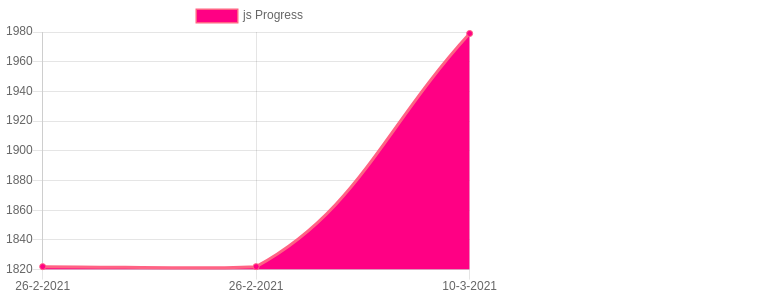
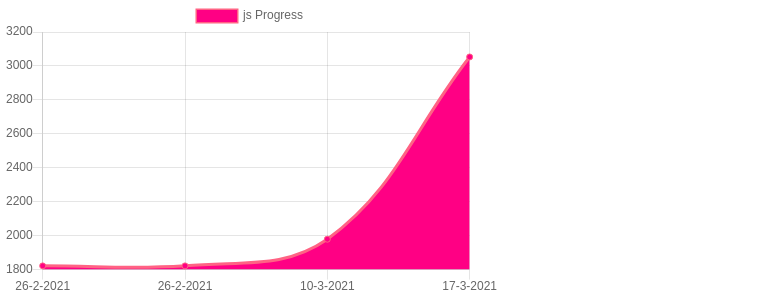
1000: js (node orms, react js)

diff --git a/total.html b/total.html
@@ -9,7 +9,7 @@
         <script src="https://cdn.jsdelivr.net/npm/chart.js@2.8.0"></script>
         <script>
           var ctx = document.getElementById("total").getContext("2d");
-          const goLabelsDates = ["2021-02-27T01:37:43.112Z","2021-02-27T01:38:01.628Z","2021-03-01T13:41:18.753Z","2021-03-01T14:53:41.991Z","2021-03-01T15:08:00.851Z","2021-03-01T15:09:10.635Z","2021-03-01T15:22:55.385Z","2021-03-03T15:31:41.151Z","2021-03-05T14:02:13.446Z","2021-03-10T14:50:13.297Z","2021-03-11T01:54:03.424Z","2021-03-11T15:32:47.647Z","2021-03-11T16:01:51.191Z","2021-03-12T00:36:04.646Z","2021-03-13T00:14:58.179Z","2021-03-16T05:30:04.043Z",];
+          const goLabelsDates = ["2021-02-27T01:37:43.112Z","2021-02-27T01:38:01.628Z","2021-03-01T13:41:18.753Z","2021-03-01T14:53:41.991Z","2021-03-01T15:08:00.851Z","2021-03-01T15:09:10.635Z","2021-03-01T15:22:55.385Z","2021-03-03T15:31:41.151Z","2021-03-05T14:02:13.446Z","2021-03-10T14:50:13.297Z","2021-03-11T01:54:03.424Z","2021-03-11T15:32:47.647Z","2021-03-11T16:01:51.191Z","2021-03-12T00:36:04.646Z","2021-03-13T00:14:58.179Z","2021-03-16T05:30:04.043Z","2021-03-17T21:17:52.181Z",];
           var chart = new Chart(ctx, {
             type: 'line',
             data: {
@@ -18,7 +18,7 @@
                 label: 'total Progress',
                 backgroundColor: 'rgb(255, 0, 132)',
                 borderColor: 'rgb(255, 99, 132)',
-                data: [7975,7975,8307,8526,8526,8527,8573,9171,9358,9751,9908,10232,10231,10643,10911,11353,]
+                data: [7975,7975,8307,8526,8526,8527,8573,9171,9358,9751,9908,10232,10231,10643,10911,11353,12576,]
               }]
             },
           });

diff --git a/ts.html b/ts.html
@@ -4,12 +4,12 @@
       <head></head>
       <body>
         <div style="width: 500px;">
-          <canvas id="ts" width="500" height="500"></canvas>
+          <canvas id="ts" width="500" height="300"></canvas>
         </div>
         <script src="https://cdn.jsdelivr.net/npm/chart.js@2.8.0"></script>
         <script>
           var ctx = document.getElementById("ts").getContext("2d");
-          const goLabelsDates = ["2021-02-27T01:37:43.110Z","2021-02-27T01:38:01.627Z",];
+          const goLabelsDates = ["2021-02-27T01:37:43.110Z","2021-02-27T01:38:01.627Z","2021-03-17T21:17:52.180Z",];
           var chart = new Chart(ctx, {
             type: 'line',
             data: {
@@ -18,7 +18,7 @@
                 label: 'ts Progress',
                 backgroundColor: 'rgb(255, 0, 132)',
                 borderColor: 'rgb(255, 99, 132)',
-                data: [829,829,]
+                data: [829,829,945,]
               }]
             },
           });

diff --git a/js.html b/js.html
@@ -9,7 +9,7 @@
         <script src="https://cdn.jsdelivr.net/npm/chart.js@2.8.0"></script>
         <script>
           var ctx = document.getElementById("js").getContext("2d");
-          const goLabelsDates = ["2021-02-27T01:37:43.110Z","2021-02-27T01:38:01.626Z","2021-03-11T01:54:03.422Z",];
+          const goLabelsDates = ["2021-02-27T01:37:43.110Z","2021-02-27T01:38:01.626Z","2021-03-11T01:54:03.422Z","2021-03-17T21:17:52.179Z",];
           var chart = new Chart(ctx, {
             type: 'line',
             data: {
@@ -18,7 +18,7 @@
                 label: 'js Progress',
                 backgroundColor: 'rgb(255, 0, 132)',
                 borderColor: 'rgb(255, 99, 132)',
-                data: [1822,1822,1979,]
+                data: [1822,1822,1979,3053,]
               }]
             },
           });

diff --git a/count.js b/count.js
@@ -9,14 +9,14 @@ const configLn = [
     ln: 'js',
     title: "JavaScript",
     subjects: [
-      "react, ", "angular, "
+      "react, ", "angular, sequelize, mongoose, prisma, node js."
     ]
   },
   {
     ln: 'ts',
     title: "TS",
     subjects: [
-      "angular"
+      "angular, microORM, typeORM, node js."
     ]
   },
 

diff --git a/Readme.md b/Readme.md
@@ -1,20 +1,20 @@
 # All count
 |Language|Lines|%|%|%|%|
 |----------|-------|--------|--------|--------|--------|
+|js|3053|153|153|![js](https://raw.githubusercontent.com/kapit4n/l-10000-dev/master/js.png)|react, , angular, sequelize, mongoose, prisma, node js.|
 |go|2307|115|115|![go](https://raw.githubusercontent.com/kapit4n/l-10000-dev/master/go.png)|structs, loops|
-|js|1979|99|99|![js](https://raw.githubusercontent.com/kapit4n/l-10000-dev/master/js.png)|react, , angular, |
-|ruby|1875|94|94|![ruby](https://raw.githubusercontent.com/kapit4n/l-10000-dev/master/ruby.png)|migrations, ruby on rails, presenters, models|
+|ruby|1908|95|95|![ruby](https://raw.githubusercontent.com/kapit4n/l-10000-dev/master/ruby.png)|migrations, ruby on rails, presenters, models|
 |scala|1541|77|77|![scala](https://raw.githubusercontent.com/kapit4n/l-10000-dev/master/scala.png)|play framework, akka, collections|
 |python|1501|75|75|![python](https://raw.githubusercontent.com/kapit4n/l-10000-dev/master/python.png)|collections, |
 |java|1265|63|63|![java](https://raw.githubusercontent.com/kapit4n/l-10000-dev/master/java.png)|reflexion, strings, generics, documentation|
-|ts|829|41|41|![ts](https://raw.githubusercontent.com/kapit4n/l-10000-dev/master/ts.png)|angular|
+|ts|945|47|47|![ts](https://raw.githubusercontent.com/kapit4n/l-10000-dev/master/ts.png)|angular, microORM, typeORM, node js.|
 |words|47|2|2|![words](https://raw.githubusercontent.com/kapit4n/l-10000-dev/master/words.png)||
 |sql|9|0|0|![sql](https://raw.githubusercontent.com/kapit4n/l-10000-dev/master/sql.png)||
 |dotnet|0|0|0|![dotnet](https://raw.githubusercontent.com/kapit4n/l-10000-dev/master/dotnet.png)||
-|TOTAL|11353|1135.300%|
+|TOTAL|12576|1257.600%|
 10/02(0)
 
-10/03(11353)
+10/03(12576)
 
 
 # run it
@@ -37,4 +37,4 @@ node ./count.js
 * Angular, React, Vue
 * Spring, Play
 * Scala, Java
-, 2021-03-16T05:30:04.044Z
+, 2021-03-17T21:17:52.181Z
